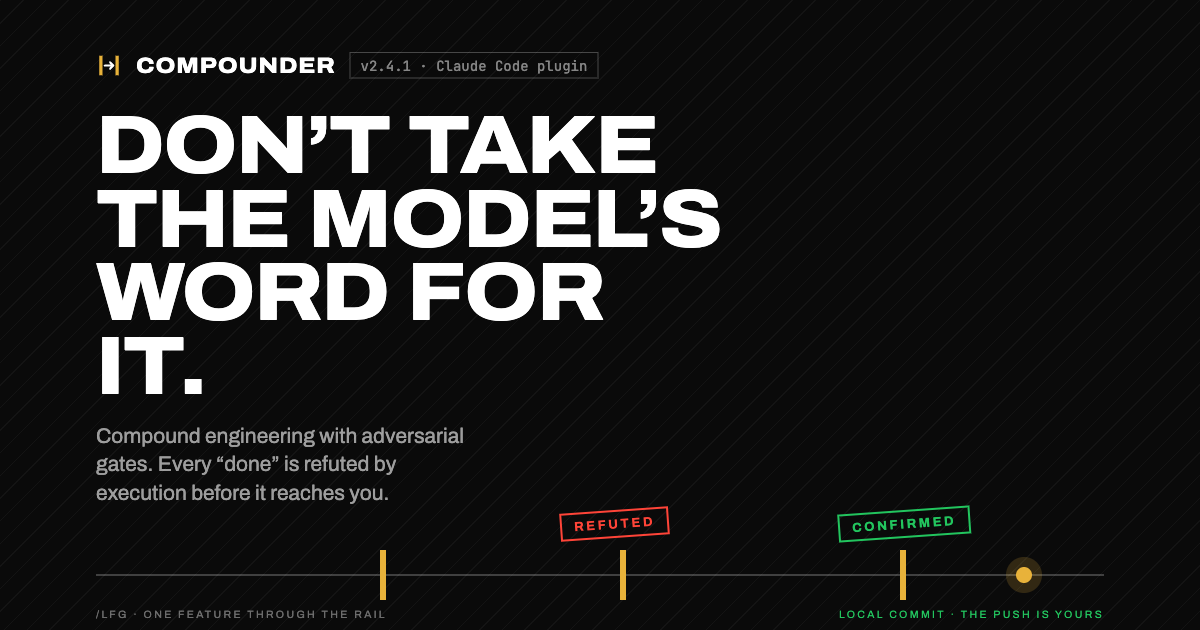
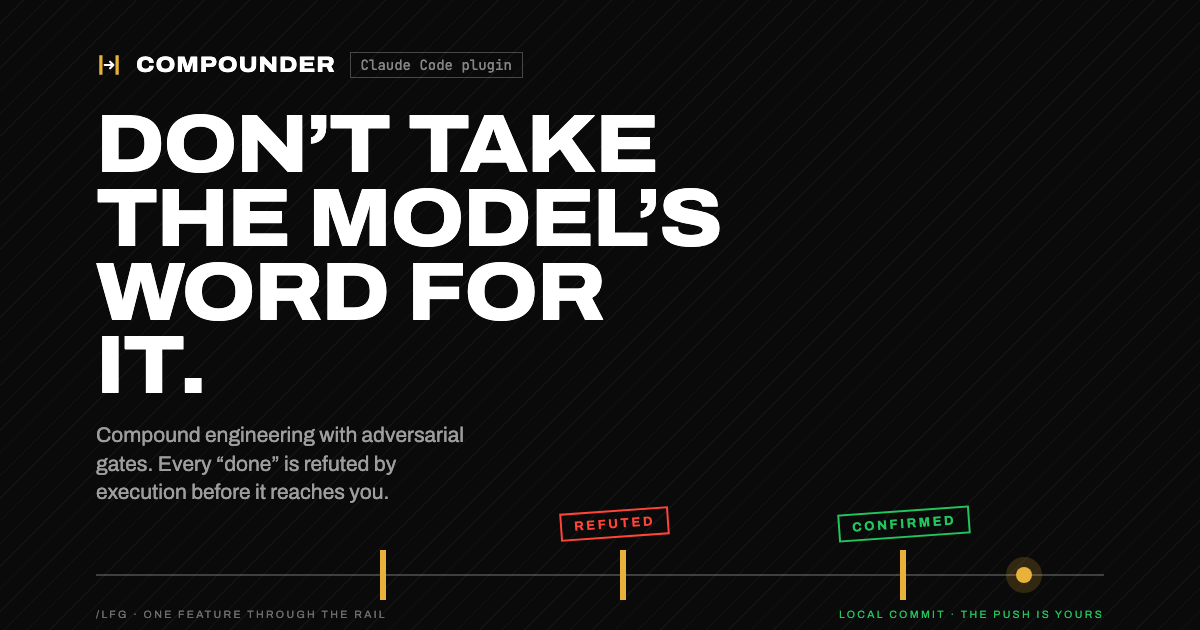
fix(site): catch the landing page up to v2.6.0 — fifteen skills
The page still described v2.4.1: eleven skills, 84 lines on average.
v2.5.0 shipped goal, handoff, guardrails and council without cards.

- four new cards; the aside grid becomes 3x3 and shares the rail grid's
  columns at every breakpoint
- headline, stats strip and the skill-length chart follow the tree
  (15 skills, 75 lines on average)
- the version leaves the OG card and the counts leave og:description:
  neither can be kept current without a render step

diff --git a/site/index.html b/site/index.html
@@ -9,7 +9,7 @@
 <meta property="og:type" content="website">
 <meta property="og:site_name" content="compounder">
 <meta property="og:title" content="compounder — don’t take the model’s word for it">
-<meta property="og:description" content="Compound engineering for Claude Code with adversarial gates. 11 lean skills, 7 fenced agents, local delivery by default.">
+<meta property="og:description" content="Compound engineering for Claude Code with adversarial gates. Lean skills, fenced agents, local delivery by default.">
 <meta property="og:image" content="https://compounder.alexcesar.com/og.png">
 <meta property="og:image:width" content="1200">
 <meta property="og:image:height" content="630">
@@ -29,7 +29,7 @@
 	<div class="nav__inner">
 		<a class="nav__brand" href="#top">
 			<svg class="nav__mark" viewBox="0 0 24 24" aria-hidden="true"><rect x="3" y="3" width="3" height="18"/><rect x="18" y="3" width="3" height="18"/><path d="M8 12h8M13 9l3 3-3 3" fill="none" stroke="currentColor" stroke-width="2" stroke-linecap="round" stroke-linejoin="round"/></svg>
-			compounder<span class="nav__version">v2.4.1</span>
+			compounder<span class="nav__version">v2.6.0</span>
 		</a>
 		<nav class="nav__links" aria-label="Sections">
 			<a href="#gates">Gates</a>
@@ -110,9 +110,9 @@
 
 <section class="strip">
 	<dl class="stats">
-		<div class="stats__cell"><dt>11</dt><dd>skills, one happy path each</dd></div>
+		<div class="stats__cell"><dt>15</dt><dd>skills, one happy path each</dd></div>
 		<div class="stats__cell"><dt>7</dt><dd>agents, fenced by tools</dd></div>
-		<div class="stats__cell"><dt>84</dt><dd>lines per skill, on average</dd></div>
+		<div class="stats__cell"><dt>75</dt><dd>lines per skill, on average</dd></div>
 		<div class="stats__cell"><dt>0</dt><dd>config files to write</dd></div>
 	</dl>
 </section>
@@ -180,7 +180,7 @@
 <section class="section section--tint" id="pipeline">
 	<div class="section__inner">
 		<p class="eyebrow" data-reveal>The skills</p>
-		<h2 class="section__title" data-reveal>Six on the rail. Five around it. Eleven in total.</h2>
+		<h2 class="section__title" data-reveal>Six on the rail. Nine around it. Fifteen in total.</h2>
 		<p class="section__lede" data-reveal>Run them by hand, one at a time. Or hand the whole rail to <code>/lfg</code> and let the gates decide.</p>
 
 		<ol class="grid" data-reveal>
@@ -195,9 +195,13 @@
 		<ul class="grid grid--aside" data-reveal>
 			<li class="grid__cell"><code class="grid__cmd">/lfg &lt;feature&gt;</code><p class="grid__role">The whole rail, autonomous, gates included. Local delivery.</p></li>
 			<li class="grid__cell"><code class="grid__cmd">/slfg &lt;feature&gt;</code><p class="grid__role">The rail as a swarm: three researchers, the review panel, one verifier per finding — in parallel. Costs 3–10×. Asks before firing.</p></li>
+			<li class="grid__cell"><code class="grid__cmd">/work-fork &lt;plan&gt;</code><p class="grid__role">The cheap route: a ready plan executed by a fenced subagent on a smaller model.</p></li>
+			<li class="grid__cell"><code class="grid__cmd">/goal &lt;request&gt;</code><p class="grid__role">The request as a contract: acceptance criteria you can check, then the handoff to <code>/plan</code> or <code>/work</code>.</p></li>
+			<li class="grid__cell"><code class="grid__cmd">/guardrails</code><p class="grid__role">An interview, then fences in layers: permissions in settings.json, invariants in CLAUDE.md, zones in AUTONOMY.md.</p></li>
+			<li class="grid__cell"><code class="grid__cmd">/handoff</code><p class="grid__role">Close a session with work still open: the actual state with evidence, a next step runnable in a minute, the traps.</p></li>
 			<li class="grid__cell"><code class="grid__cmd">/debug &lt;bug&gt;</code><p class="grid__role">Reproduce, competing hypotheses, bisection, fix with a red-green test.</p></li>
 			<li class="grid__cell"><code class="grid__cmd">/btw &lt;message&gt;</code><p class="grid__role">Talk mid-run without derailing it. A hook intercepts the aside, classifies it, schedules it.</p></li>
-			<li class="grid__cell"><code class="grid__cmd">/work-fork &lt;plan&gt;</code><p class="grid__role">The cheap route: a ready plan executed by a fenced subagent on a smaller model.</p></li>
+			<li class="grid__cell"><code class="grid__cmd">/council &lt;decision&gt;</code><p class="grid__role">Four avatars on one decision, one of them a guaranteed contrarian. The tension mapped, the decision handed back.</p></li>
 		</ul>
 	</div>
 </section>
@@ -320,15 +324,15 @@
 		<p class="section__lede" data-reveal>Same philosophy — each unit of work should make the next one easier. Different engineering underneath, because the original targets the lowest common denominator across platforms and assumes the biggest model is doing the work. Most of the work is done by Sonnet.</p>
 
 		<figure class="diagram diagram--paper" data-anim>
-			<svg class="bars" viewBox="0 0 960 250" role="img" aria-label="Skill length in lines. A compound-engineering skill: 400 to 800 lines. A compounder skill: 84 lines on average, 165 at most. The original learning-capture skill: 727 lines. compounder's /compound: 94 lines.">
+			<svg class="bars" viewBox="0 0 960 250" role="img" aria-label="Skill length in lines. A compound-engineering skill: 400 to 800 lines. A compounder skill: 75 lines on average, 165 at most. The original learning-capture skill: 727 lines. compounder's /compound: 94 lines.">
 				<text class="bars__label" x="0" y="44">A SKILL IN COMPOUND-ENGINEERING</text>
 				<rect class="bars__bar bars__bar--range" x="330" y="30" width="620" height="18" style="--i:0"/>
 				<rect class="bars__bar bars__bar--ink" x="330" y="30" width="310" height="18" style="--i:0"/>
 				<text class="bars__value" x="640" y="65">400 – 800 LINES</text>
 
 				<text class="bars__label" x="0" y="106">A SKILL IN COMPOUNDER</text>
-				<rect class="bars__bar bars__bar--gold" x="330" y="92" width="65" height="18" style="--i:1"/>
-				<text class="bars__value" x="404" y="106">84 LINES ON AVERAGE · 165 AT MOST</text>
+				<rect class="bars__bar bars__bar--gold" x="330" y="92" width="58" height="18" style="--i:1"/>
+				<text class="bars__value" x="397" y="106">75 LINES ON AVERAGE · 165 AT MOST</text>
 
 				<text class="bars__label" x="0" y="176">CE-COMPOUND · LEARNING CAPTURE</text>
 				<rect class="bars__bar bars__bar--ink" x="330" y="162" width="563" height="18" style="--i:2"/>

diff --git a/site/style.css b/site/style.css
@@ -375,7 +375,7 @@ svg text { font-family: var(--font-body); }
 	display: grid; grid-template-columns: repeat(3, 1fr); gap: 1px;
 	background: var(--line); border: 1px solid var(--line);
 }
-.grid--aside { margin-top: 1px; border-top: 0; grid-template-columns: repeat(5, 1fr); }
+.grid--aside { margin-top: 1px; border-top: 0; }
 .grid__cell {
 	background: var(--paper); padding: 22px 22px 24px; min-height: 180px;
 	display: flex; flex-direction: column; gap: 10px;
@@ -393,8 +393,7 @@ svg text { font-family: var(--font-body); }
 	color: var(--accent);
 }
 
-@media (max-width: 960px) { .grid--aside { grid-template-columns: repeat(2, 1fr); } }
-@media (max-width: 720px) { .grid { grid-template-columns: 1fr; } .grid--aside { grid-template-columns: 1fr; } .grid__cell { min-height: 0; } }
+@media (max-width: 720px) { .grid { grid-template-columns: 1fr; } .grid__cell { min-height: 0; } }
 
 /* ---------- diagrams (shared) ---------- */
 

diff --git a/site/og.html b/site/og.html
@@ -27,7 +27,7 @@
 </head>
 <body>
 	<div class="inner">
-		<div class="brand"><svg viewBox="0 0 24 24"><rect x="3" y="3" width="3" height="18"/><rect x="18" y="3" width="3" height="18"/><path d="M8 12h8M13 9l3 3-3 3" fill="none" stroke="#fff" stroke-width="2" stroke-linecap="round" stroke-linejoin="round"/></svg>compounder <span>v2.4.1 · Claude Code plugin</span></div>
+		<div class="brand"><svg viewBox="0 0 24 24"><rect x="3" y="3" width="3" height="18"/><rect x="18" y="3" width="3" height="18"/><path d="M8 12h8M13 9l3 3-3 3" fill="none" stroke="#fff" stroke-width="2" stroke-linecap="round" stroke-linejoin="round"/></svg>compounder <span>Claude Code plugin</span></div>
 		<h1>Don’t take the model’s word for it.</h1>
 		<p class="sub">Compound engineering with adversarial gates. Every “done” is refuted by execution before it reaches you.</p>
 	</div>
